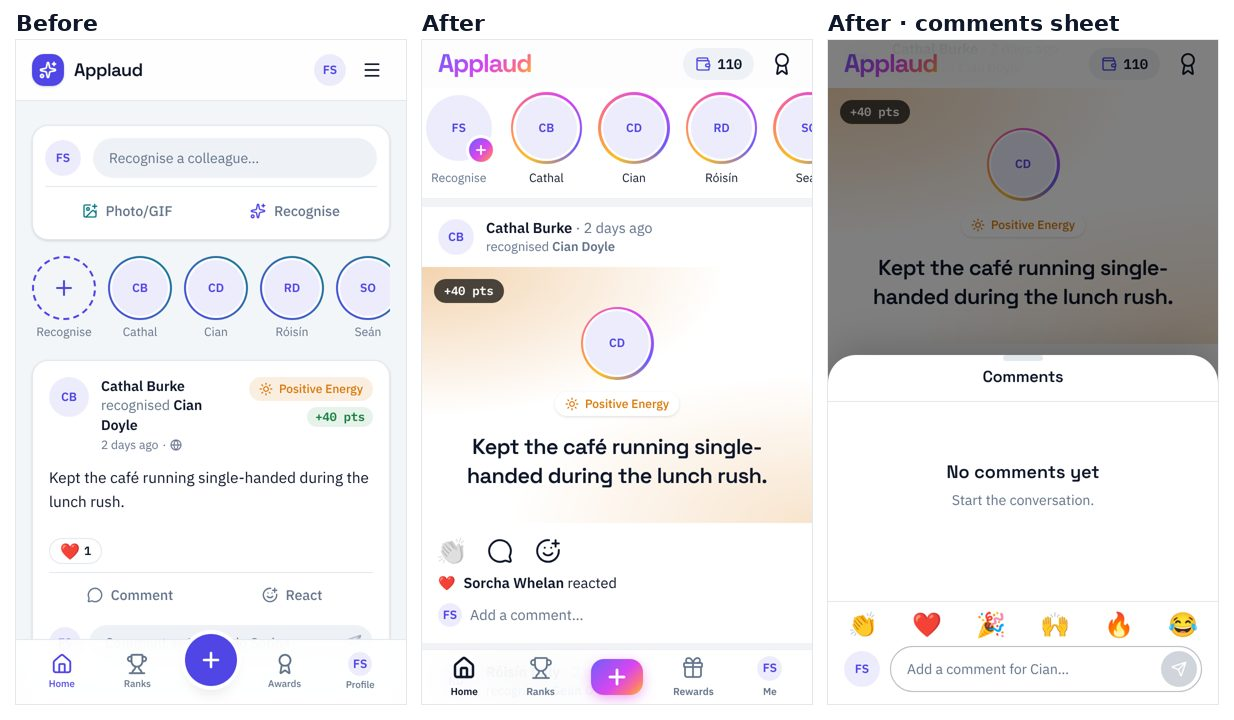
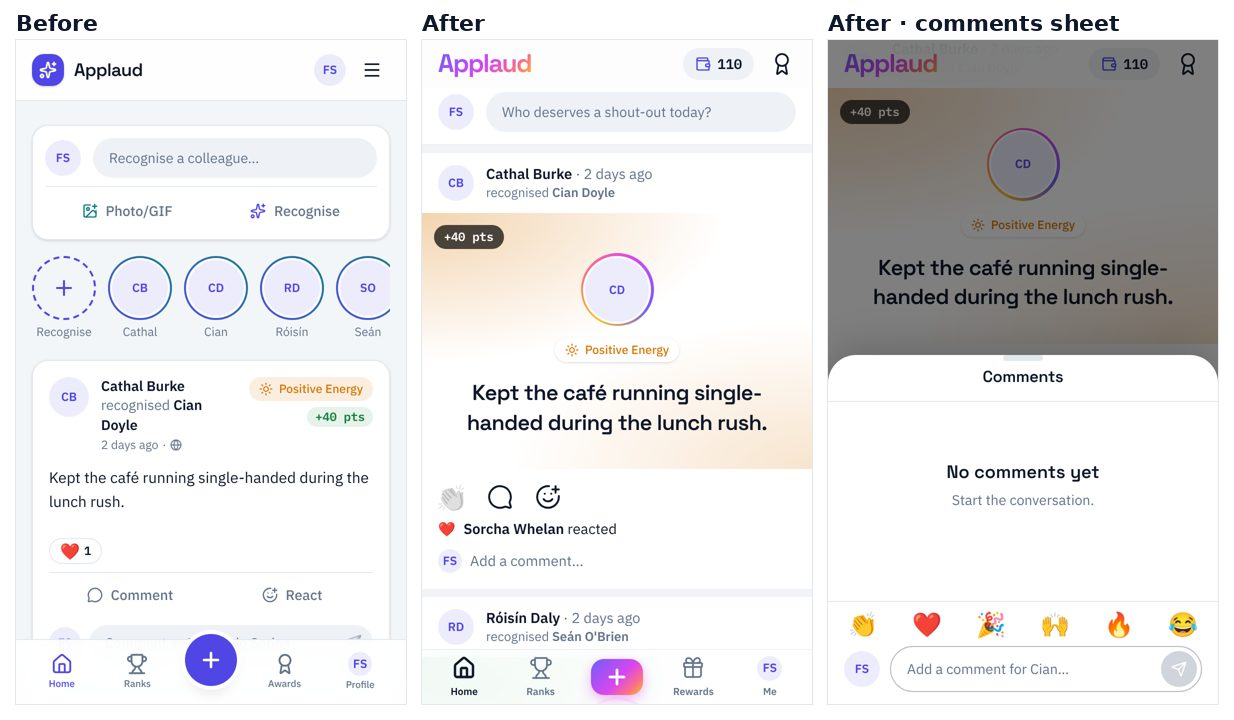
Drop the stories row from the feed
Nothing in the app uses stories, so the row of ringed avatars was
decoration that suggested a feature we don't have. Phones get a slim
"Who deserves a shout-out today?" prompt into the composer instead.

Claude-Session: https://claude.ai/code/session_01KpYRjDR8sgaaH7EXU9Dw4j

Changed region(s): [[0.3387, 0.1222, 0.6775, 0.9167], [0.6467, 0.1528, 0.6775, 0.1833]]

diff --git a/app/(app)/page.tsx b/app/(app)/page.tsx
@@ -9,7 +9,7 @@ import { Button } from "@/components/ui/button";
 import { AppBar, appBarIconClass } from "@/components/app-shell/app-bar";
 import { RecognitionCard } from "@/components/feed/recognition-card";
 import { FeedComposer } from "@/components/feed/feed-composer";
-import { StoriesRow } from "@/components/feed/stories-row";
+import { UserAvatar } from "@/components/user-avatar";
 
 export const dynamic = "force-dynamic";
 
@@ -28,26 +28,6 @@ export default async function FeedPage() {
     avatarUrl: me.avatarUrl ?? null,
     role: me.role,
   };
-
-  // Build the "stories" strip from people recently active in the feed.
-  const peopleMap = new Map<
-    string,
-    { id: string; name: string; avatarUrl: string | null }
-  >();
-  for (const c of cards) {
-    if (!c.system) {
-      peopleMap.set(c.sender.id, {
-        id: c.sender.id,
-        name: c.sender.name,
-        avatarUrl: c.sender.avatarUrl,
-      });
-    }
-    for (const r of c.recipients) {
-      peopleMap.set(r.id, { id: r.id, name: r.name, avatarUrl: r.avatarUrl });
-    }
-  }
-  peopleMap.delete(me.id);
-  const people = [...peopleMap.values()].slice(0, 14);
 
   return (
     <div className="mx-auto max-w-xl">
@@ -79,9 +59,16 @@ export default async function FeedPage() {
         <FeedComposer viewer={{ name: me.name, avatarUrl: me.avatarUrl }} />
       </div>
 
-      <div className="bg-surface -mx-4 border-b border-black/[0.06] px-4 md:mx-0 md:mb-4 md:rounded-2xl md:border md:px-4 md:pt-3">
-        <StoriesRow people={people} viewer={{ name: me.name, avatarUrl: me.avatarUrl }} />
-      </div>
+      {/* Phones: a one-tap prompt into the composer (desktop has FeedComposer). */}
+      <Link
+        href="/recognize"
+        className="bg-surface -mx-4 flex items-center gap-3 border-b border-black/[0.06] px-4 pt-1 pb-3 md:hidden"
+      >
+        <UserAvatar name={me.name} avatarUrl={me.avatarUrl} className="size-9" />
+        <span className="bg-secondary text-muted flex h-10 flex-1 items-center rounded-full px-4 text-sm">
+          Who deserves a shout-out today?
+        </span>
+      </Link>
 
       {cards.length === 0 ? (
         <div className="flex flex-col items-center gap-4 px-6 py-20 text-center">
